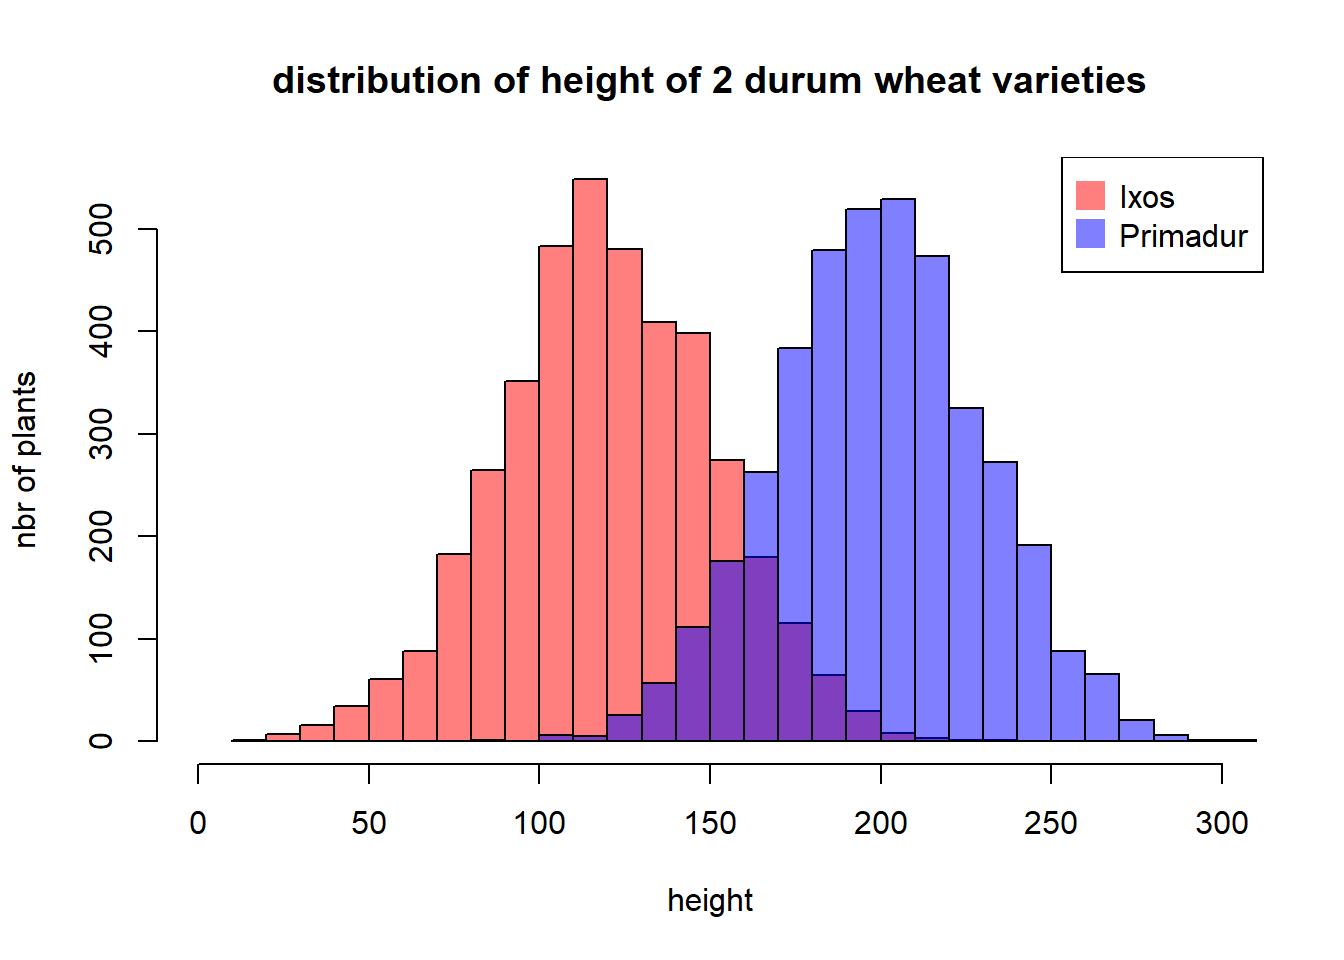
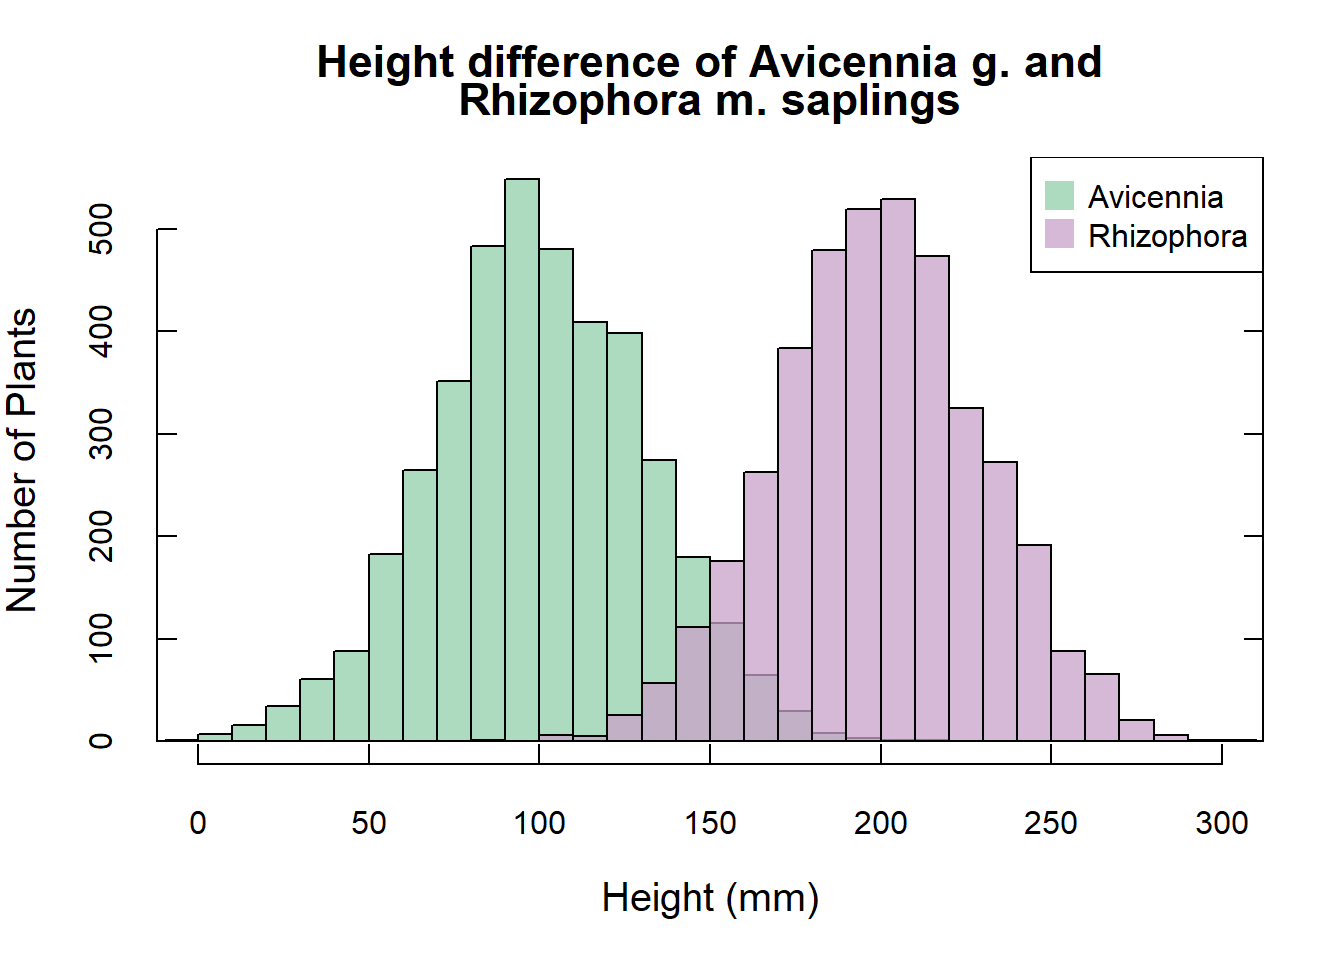
Updated and customized histogram

diff --git a/Histogram example.html b/Histogram example.html
@@ -65,11 +65,14 @@ ul.task-list li input[type="checkbox"] {
 <section id="histogram-from-r-graph-gallery" class="level2">
 <h2 class="anchored" data-anchor-id="histogram-from-r-graph-gallery">Histogram from r-graph-gallery</h2>
 <p>From: https://r-graph-gallery.com/2-two-histograms-with-melt-colors.html</p>
-<section id="things-i-want-to-do" class="level3">
-<h3 class="anchored" data-anchor-id="things-i-want-to-do">Things I want to do</h3>
+<section id="things-i-did" class="level3">
+<h3 class="anchored" data-anchor-id="things-i-did">Things I did</h3>
 <ul>
 <li>change colors of species</li>
-<li>make bars wider</li>
+<li>change species, titles, axis</li>
+<li>Increased font size of x and y axis</li>
+<li>Increased font size and wrap title</li>
+<li>Made tick marks face inward and on both sides</li>
 </ul>
 <div class="cell">
 <div class="cell-output-display">
